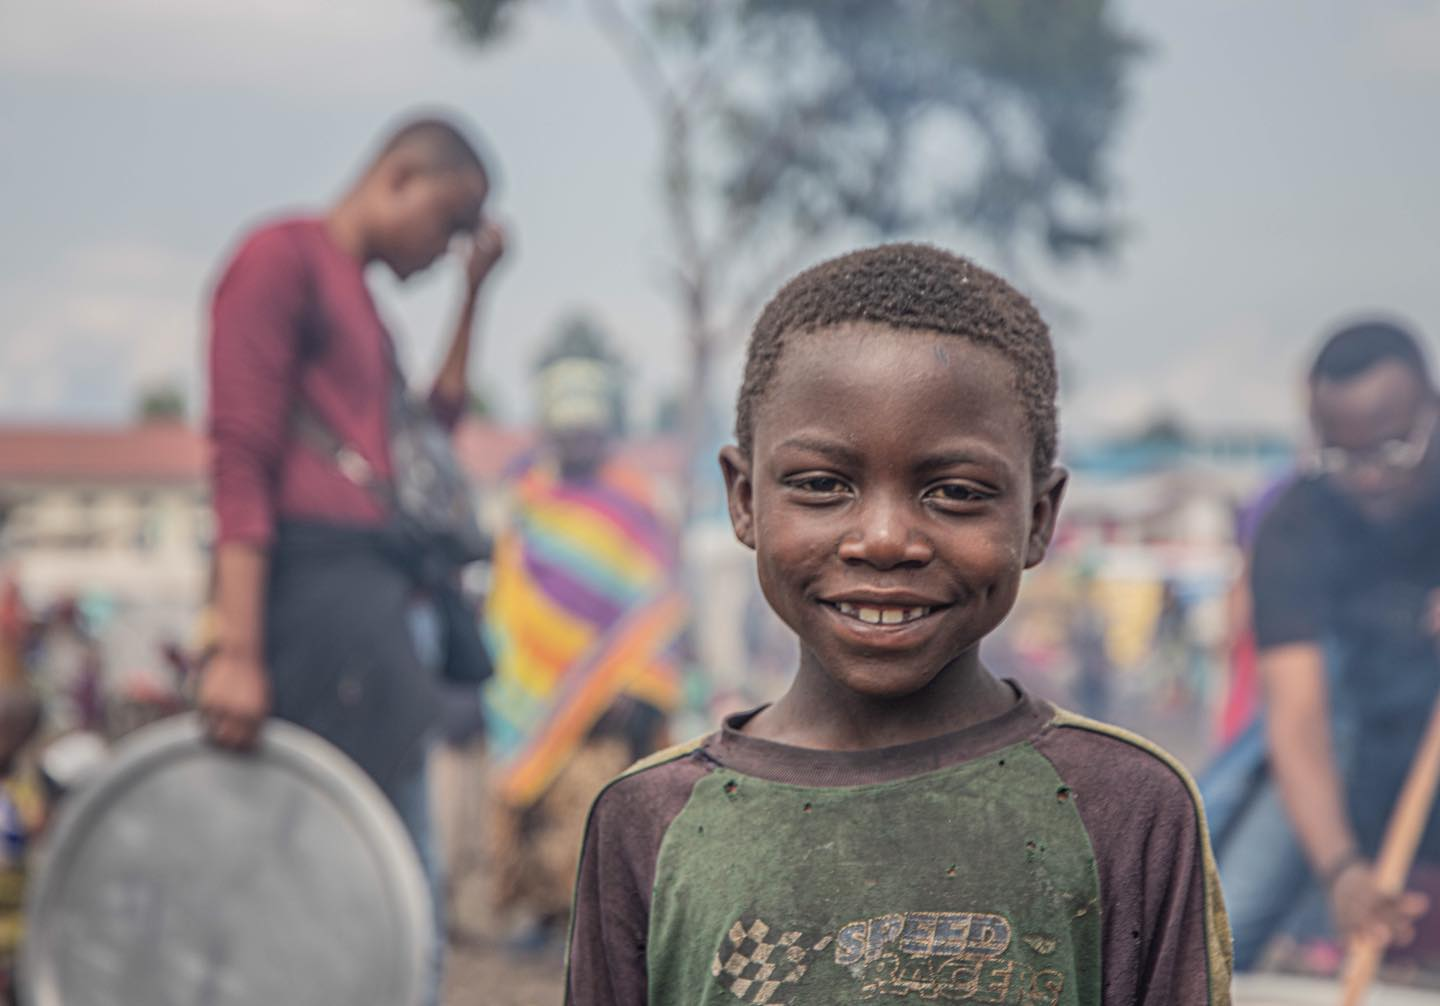
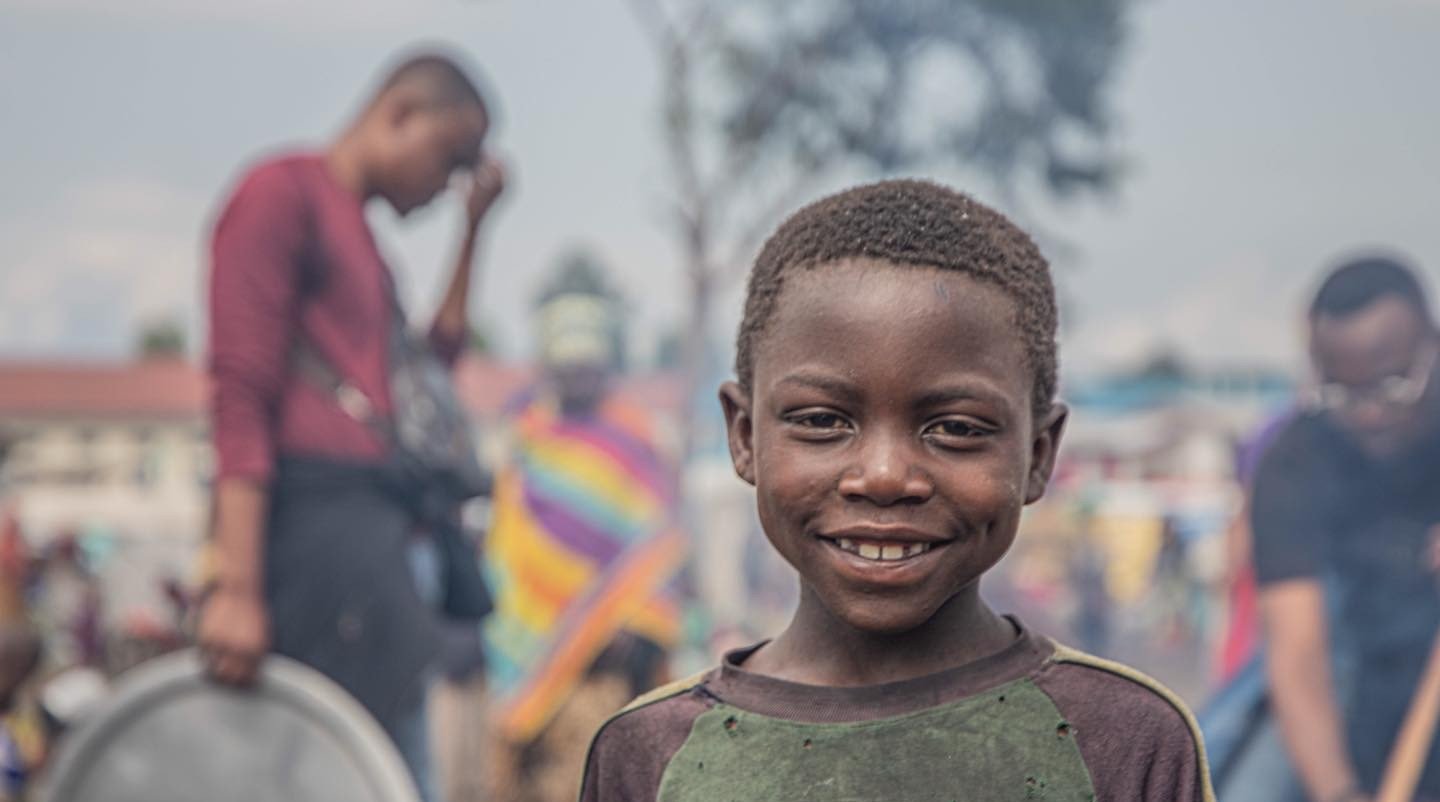
HereWeAre

diff --git a/components/mission/index.vue b/components/mission/index.vue
@@ -7,7 +7,7 @@
         :key="index"
         @click="activeTab = index"
         :class="[
-          'px-4 py-3 font-medium  transition-colors duration-300',
+          'px-8 py-3 font-medium  transition-colors duration-300',
           activeTab === index
             ? 'bg-custom-green text-white'
             : 'bg-gray-200 text-gray-700 hover:bg-gray-300',
@@ -34,7 +34,7 @@
       v-for="(tab, index) in tabs"
       :key="index"
       v-show="activeTab === index"
-      class="flex flex-col md:flex-row items-center justify-center text-center md:text-left transition-opacity duration-500"
+      class="flex flex-col gap-4 md:flex-row items-center justify-center text-center md:text-left transition-opacity duration-500"
       :class="activeTab === index ? 'opacity-100' : 'opacity-0 hidden'"
     >
       <!-- Texte au centre -->
@@ -66,7 +66,7 @@
           <img
             :src="tab.image"
             alt="Image"
-            class="w-full max-w-sm rounded-lg shadow-md"
+            class="w-full h-[350px] max-h-[200px] md:max-h-[300px] lg:max-h-[355px] object-cover rounded-lg"
           />
           <!-- Gradient en dessous -->
           <div
